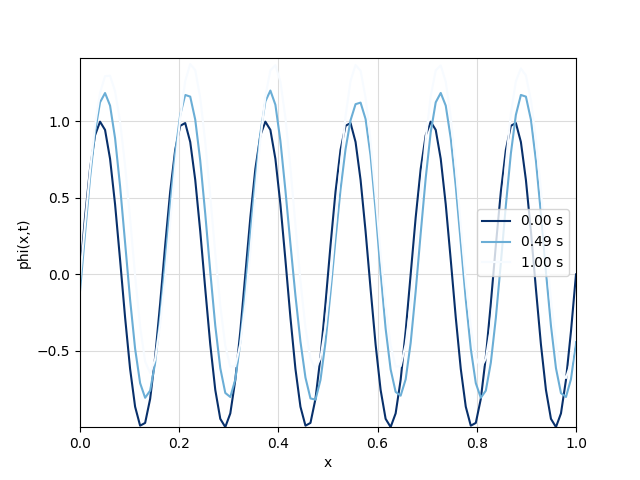
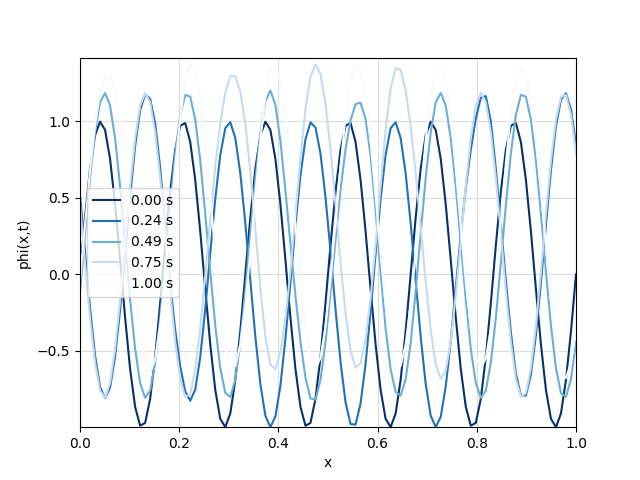
convergenc_plot

diff --git a/python/wave_convergence.py b/python/wave_convergence.py
@@ -2,21 +2,21 @@ import numpy as np
 from finite_differences.example_functions import *
 import matplotlib.pyplot as plt
 from solver import gridmaker, gaussian, gaussian_drv, wave_evolution1D
-
+import math
 
 
 def convergence(analytical, num_h, num_half_h):
     n = len(analytical)
     Q = [0]*n
     for i in range(n):
-        Q[i] = (analytical[i]-num_h[i])/(analytical[i]-num_half_h[i])
+        Q[i] = abs(analytical[i]-num_h[i])/abs(analytical[i]-num_half_h[i])
     return Q
 
 def self_convergence(num_h, num_half_h, num_quater_h):
     n = len(num_h)
     Q = [0]*n
     for i in range(n):
-        Q[i] = (num_h[i]-num_half_h[i])/(num_half_h[i]-num_quater_h[i])
+        Q[i] = abs(num_h[i]-num_half_h[i])/abs(num_half_h[i]-num_quater_h[i])
     return Q
 
 def phi_select(phi,s):
@@ -40,10 +40,11 @@ def convergence_test(endT,Nt,endX,Nx,T,tests,startfunction,startfunction_prime):
 # spatial grid resolutions
     for k in range(0,3):
         # make grid
-        print('\n endT = %.1f, Nt = %d' %(endT,Nt))
+        # print('\n endT = %.1f, Nt = %d' %(endT,Nt))
         dt, timevalues, dx, xvalues = gridmaker(endT,Nt,endX,(2**k)*Nx)
         dt = endT/Nt
         print('dt = %.3f , dx = %.3f' %(dt,dx))
+        print('shape of timevalues:', np.shape(timevalues))
         cour_N = c * dt / dx
         print("courant number = %.2f" % cour_N)
         # start conditions
@@ -71,18 +72,24 @@ def convergence_test(endT,Nt,endX,Nx,T,tests,startfunction,startfunction_prime):
 def plot_convergence(abs_conv, self_conv, xvalues,tests):
     fig, (ax1,ax2) = plt.subplots(2,figsize=(10, 8))
     # fig, (ax1,ax2) = plt.subplots(2,figsize = (6,4))
+    ax1.sharex(ax2)
+    ax1.set_yscale('linear')
+    ax2.set_yscale('linear')
     for i in range(tests):
         ax1.plot(xvalues,abs_conv[i,:],'-', label= '%d' %i)
         ax2.plot(xvalues,self_conv[i,:],'-', label= '%d' %i)
     ax1.set_title('absolute convergence')
-    ax2.set_title('self convergence')
+    ax2.set_title('self convergence')#
+    plt.xticks(np.arange(0, 1.1, 0.1))
     ax2.set_xlabel('x',loc='center')
     ax1.grid(color = 'gainsboro')
     ax2.grid(color = 'gainsboro')
 
     ax1.legend( title='periods integrated: ' )
     ax2.legend( title='periods integrated: ' )
+    fig.savefig("wave-convergence.png")
     plt.show()
+
 
 
 #--------------------------------------------------
@@ -92,9 +99,9 @@ if __name__ == "__main__":
 # set values for space time discretization
     c = 1
     endT = 1
-    Nt = 256
+    Nt = 6**3
     endX = 1
-    Nx = 64
+    Nx = 6**2
     T_per = 1/6 #T: Periodenlaenge
     n_tests = 5 # tests: Anzahl der Konvergenztests
     # test()
@@ -106,8 +113,8 @@ if __name__ == "__main__":
     mu = 0.5
     sigma = mu/Nx
     a = 2
-    Phi0 = f_4(xvalues)
-    Pi0  = f_4_prime(xvalues)
+    Phi0 = f_5(xvalues)
+    Pi0  = f_5_prime(xvalues)
     # phi0 = g_a(xvalues,a)#
     # Pi0 =  g_a_prime(xvalues,a)
     # phi0 = gaussian(xvalues,sigma,mu)

diff --git a/python/solver.py b/python/solver.py
@@ -58,6 +58,7 @@ def wave_evolution1D(phi0,Pi0,timevalues,xvalues):
     phi[i, 0] = phi[i,-2]
     Pi[i, 0] = Pi[i,-2]
 
+
     k1_phi, k1_Pi  = time_diff(phi[i,:], Pi[i], t)
     k2_phi, k2_Pi = time_diff(phi[i,:] + 0.5*deltat*k1_phi,Pi[i,:] + 0.5*deltat*k1_Pi,t + 0.5*deltat)
     k3_phi, k3_Pi = time_diff(phi[i,:] + 0.5*deltat*k2_phi,Pi[i,:] + 0.5*deltat*k2_Pi ,t + 0.5*deltat)
@@ -159,6 +160,6 @@ if __name__ == "__main__":
     # Pi0 = -c * gaussian_drv(xvalues,0.005,0.5)
     phi, Pi = wave_evolution1D(phi0,Pi0,timevalues,xvalues)
 
-    Nt_plot = 3 # how many snap shots are plotted
+    Nt_plot = 5 # how many snap shots are plotted
     plot_xt_evolution(timevalues,xvalues,phi,Nt_plot)
-    plot_animation(xvalues, timevalues, phi, Pi)
+    # plot_animation(xvalues, timevalues, phi, Pi)
